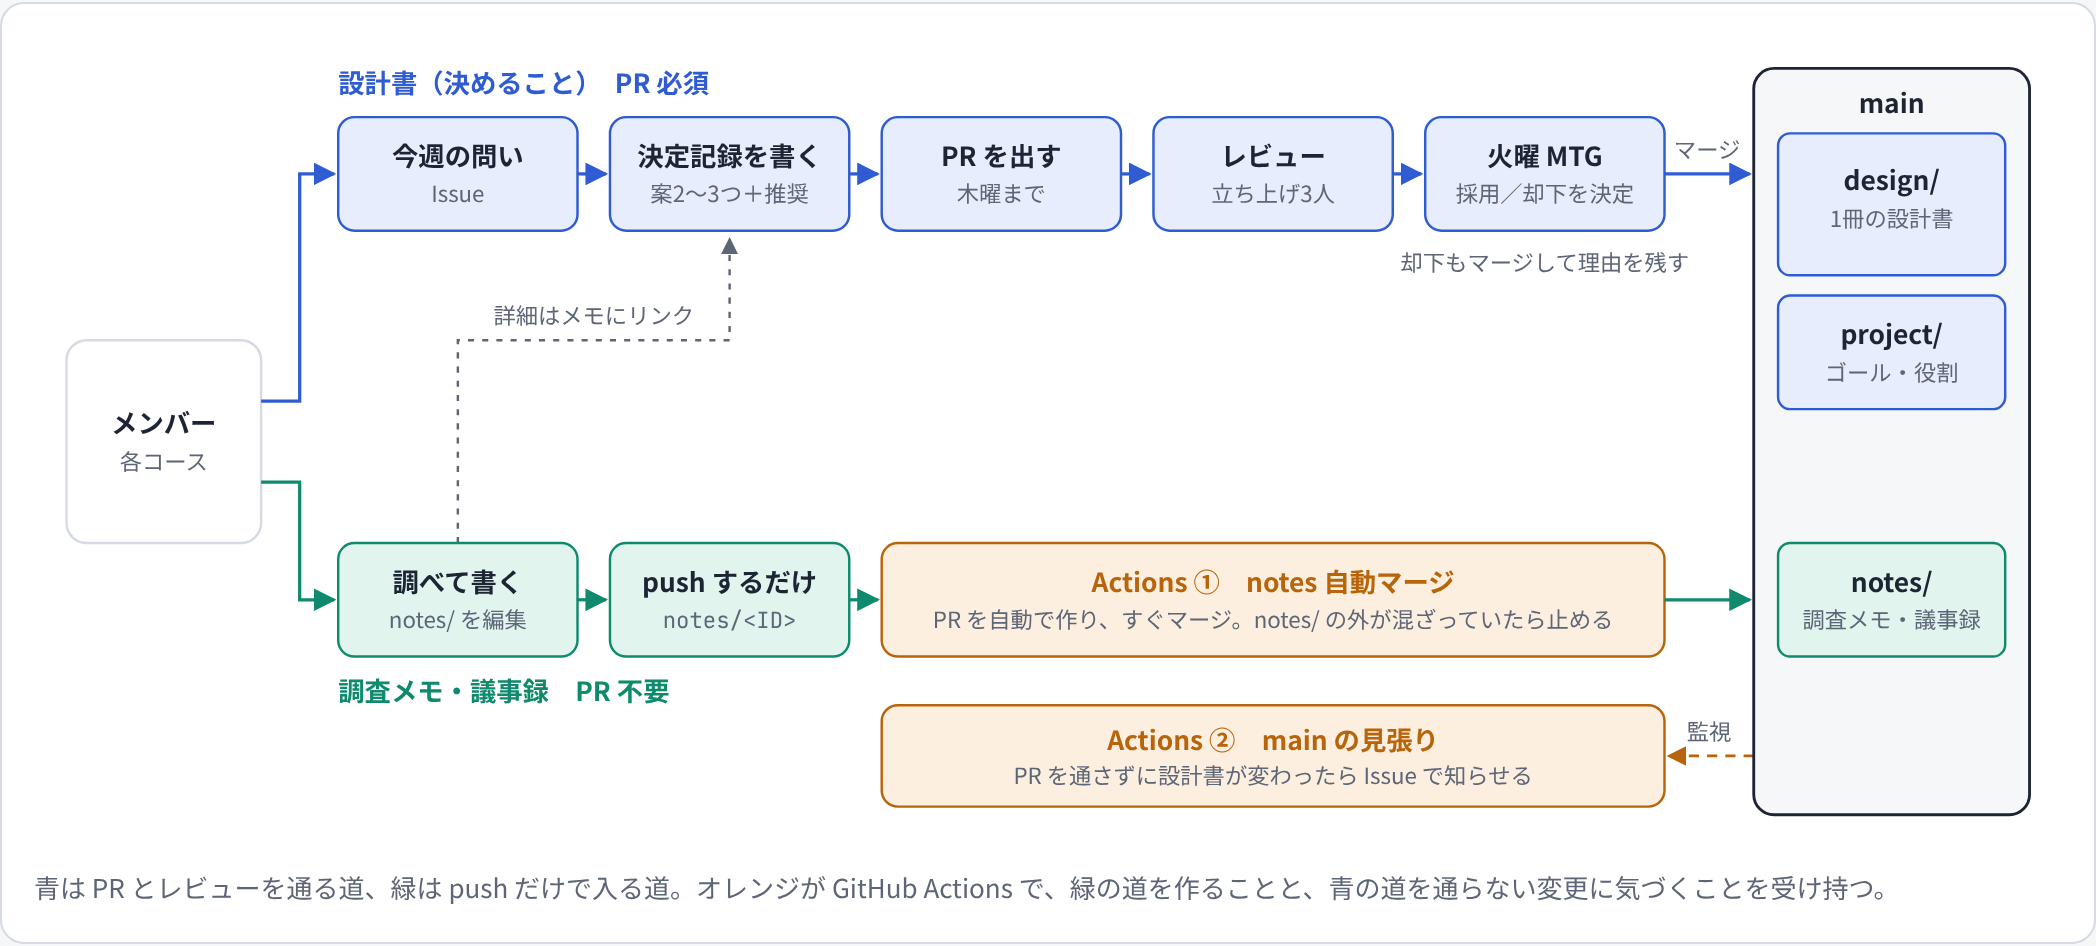
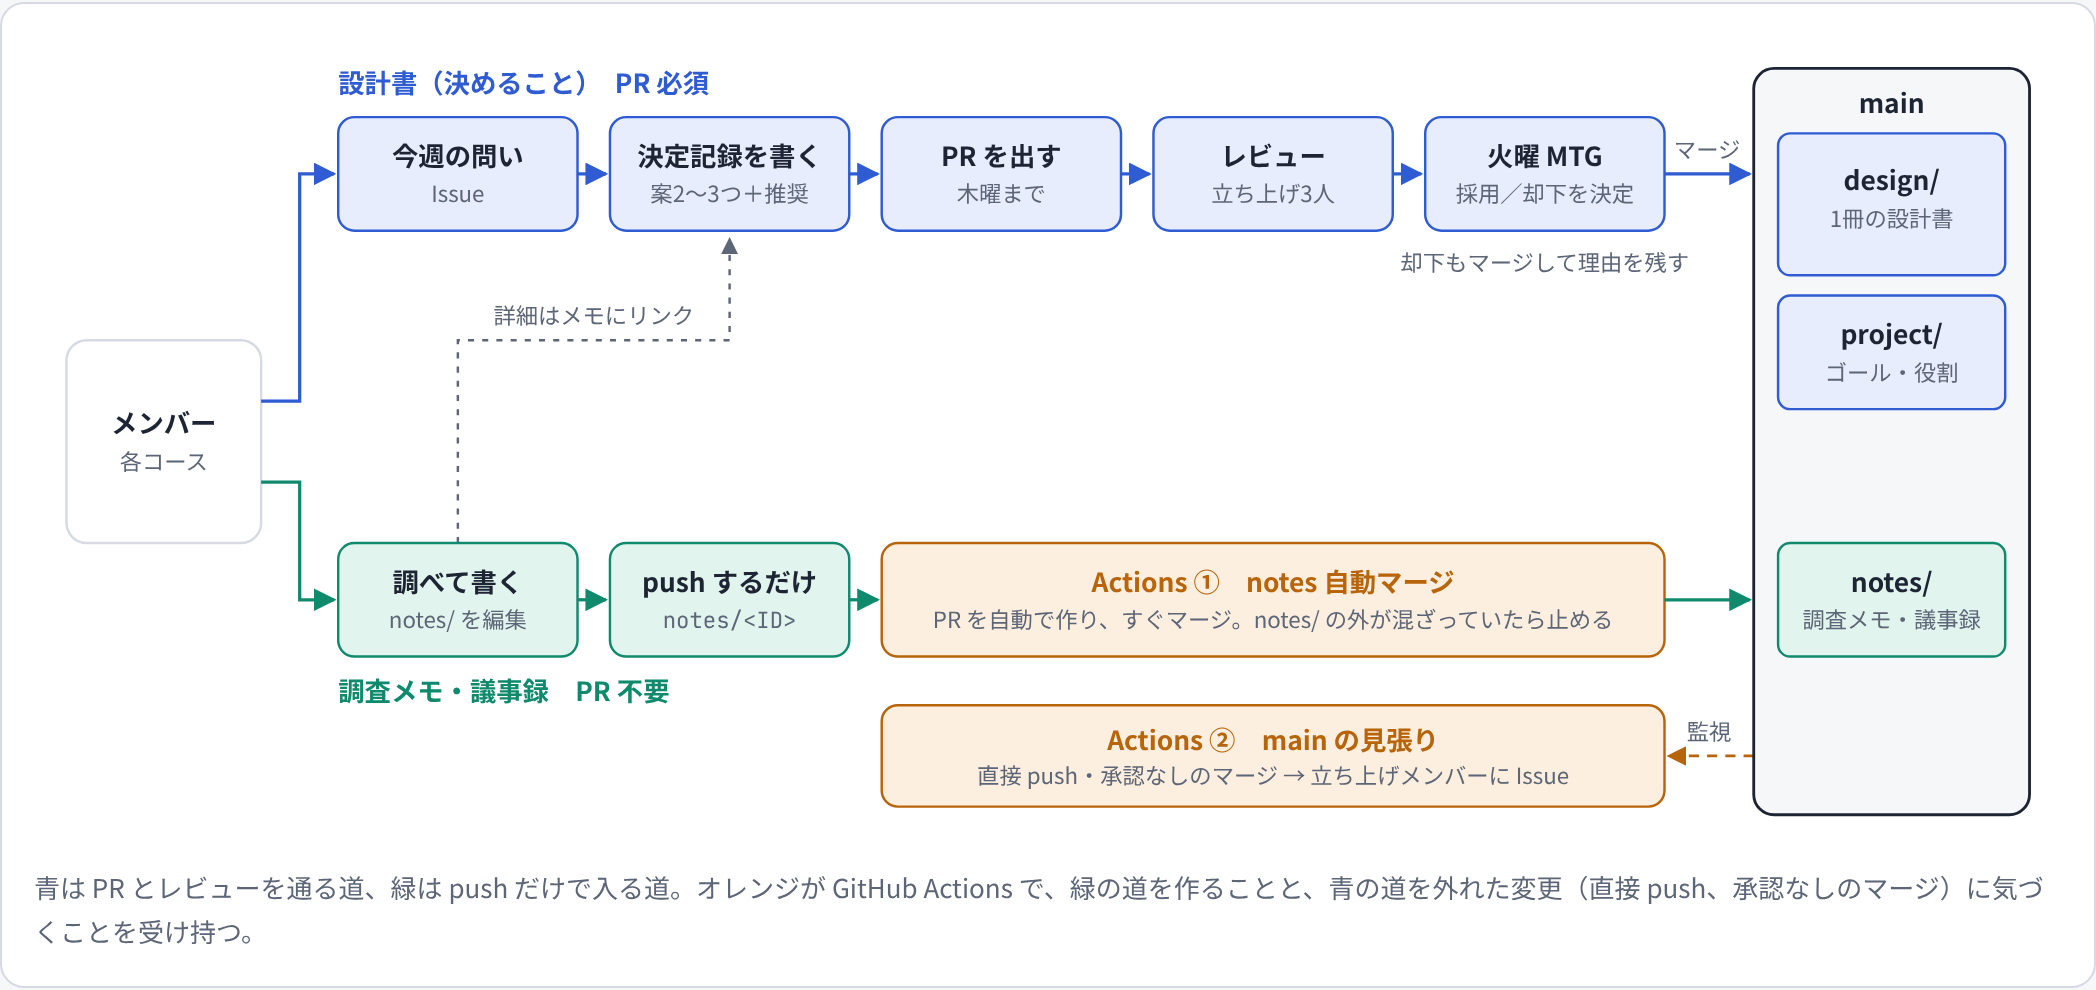
main の見張りで承認なしのマージも検知し、立ち上げメンバーに通知
- notes/ の外に触る PR が、立ち上げメンバーの承認なしでマージされたら Issue を立てる
- 承認を有効とする人は .github/founders.txt に書く（空のあいだは PR を出した人以外の承認で可）
- Issue の本文で @BigDataDojo/server-agent-founders を呼ぶ
- 運用ルール（直接 push しない、承認を得てからマージする）を process.md と github-guide.md に明記
- 構成図の説明を合わせて更新

Claude-Session: https://claude.ai/code/session_015tbs5nz1BWGMsk28raxWGX

diff --git a/project/process.md b/project/process.md
@@ -48,6 +48,7 @@ Issue「今週の問い」を立てる（担当、コースのラベル、節目
    → Issue が自動で閉じ、Projects のボードも更新される
 ```
 
+- **main に直接 push しない。マージするのは、立ち上げメンバーが承認し、MTG で決まった PR だけ。** いまの GitHub のプランではこれを機械的に止められないため、「main の見張り」（Actions）が違反を見つけると、立ち上げメンバーを呼ぶ Issue を立てる
 - 決定記録のテンプレートは [design/templates/decision.md](../design/templates/decision.md)
 - **却下になった提案も、状態を「却下」にしてマージする。** 選ばなかった理由を残し、同じ議論を繰り返さないため
 - 同じ問いに何人かが別々の PR を出してもよい。採用されなかった方は「却下」としてマージする
